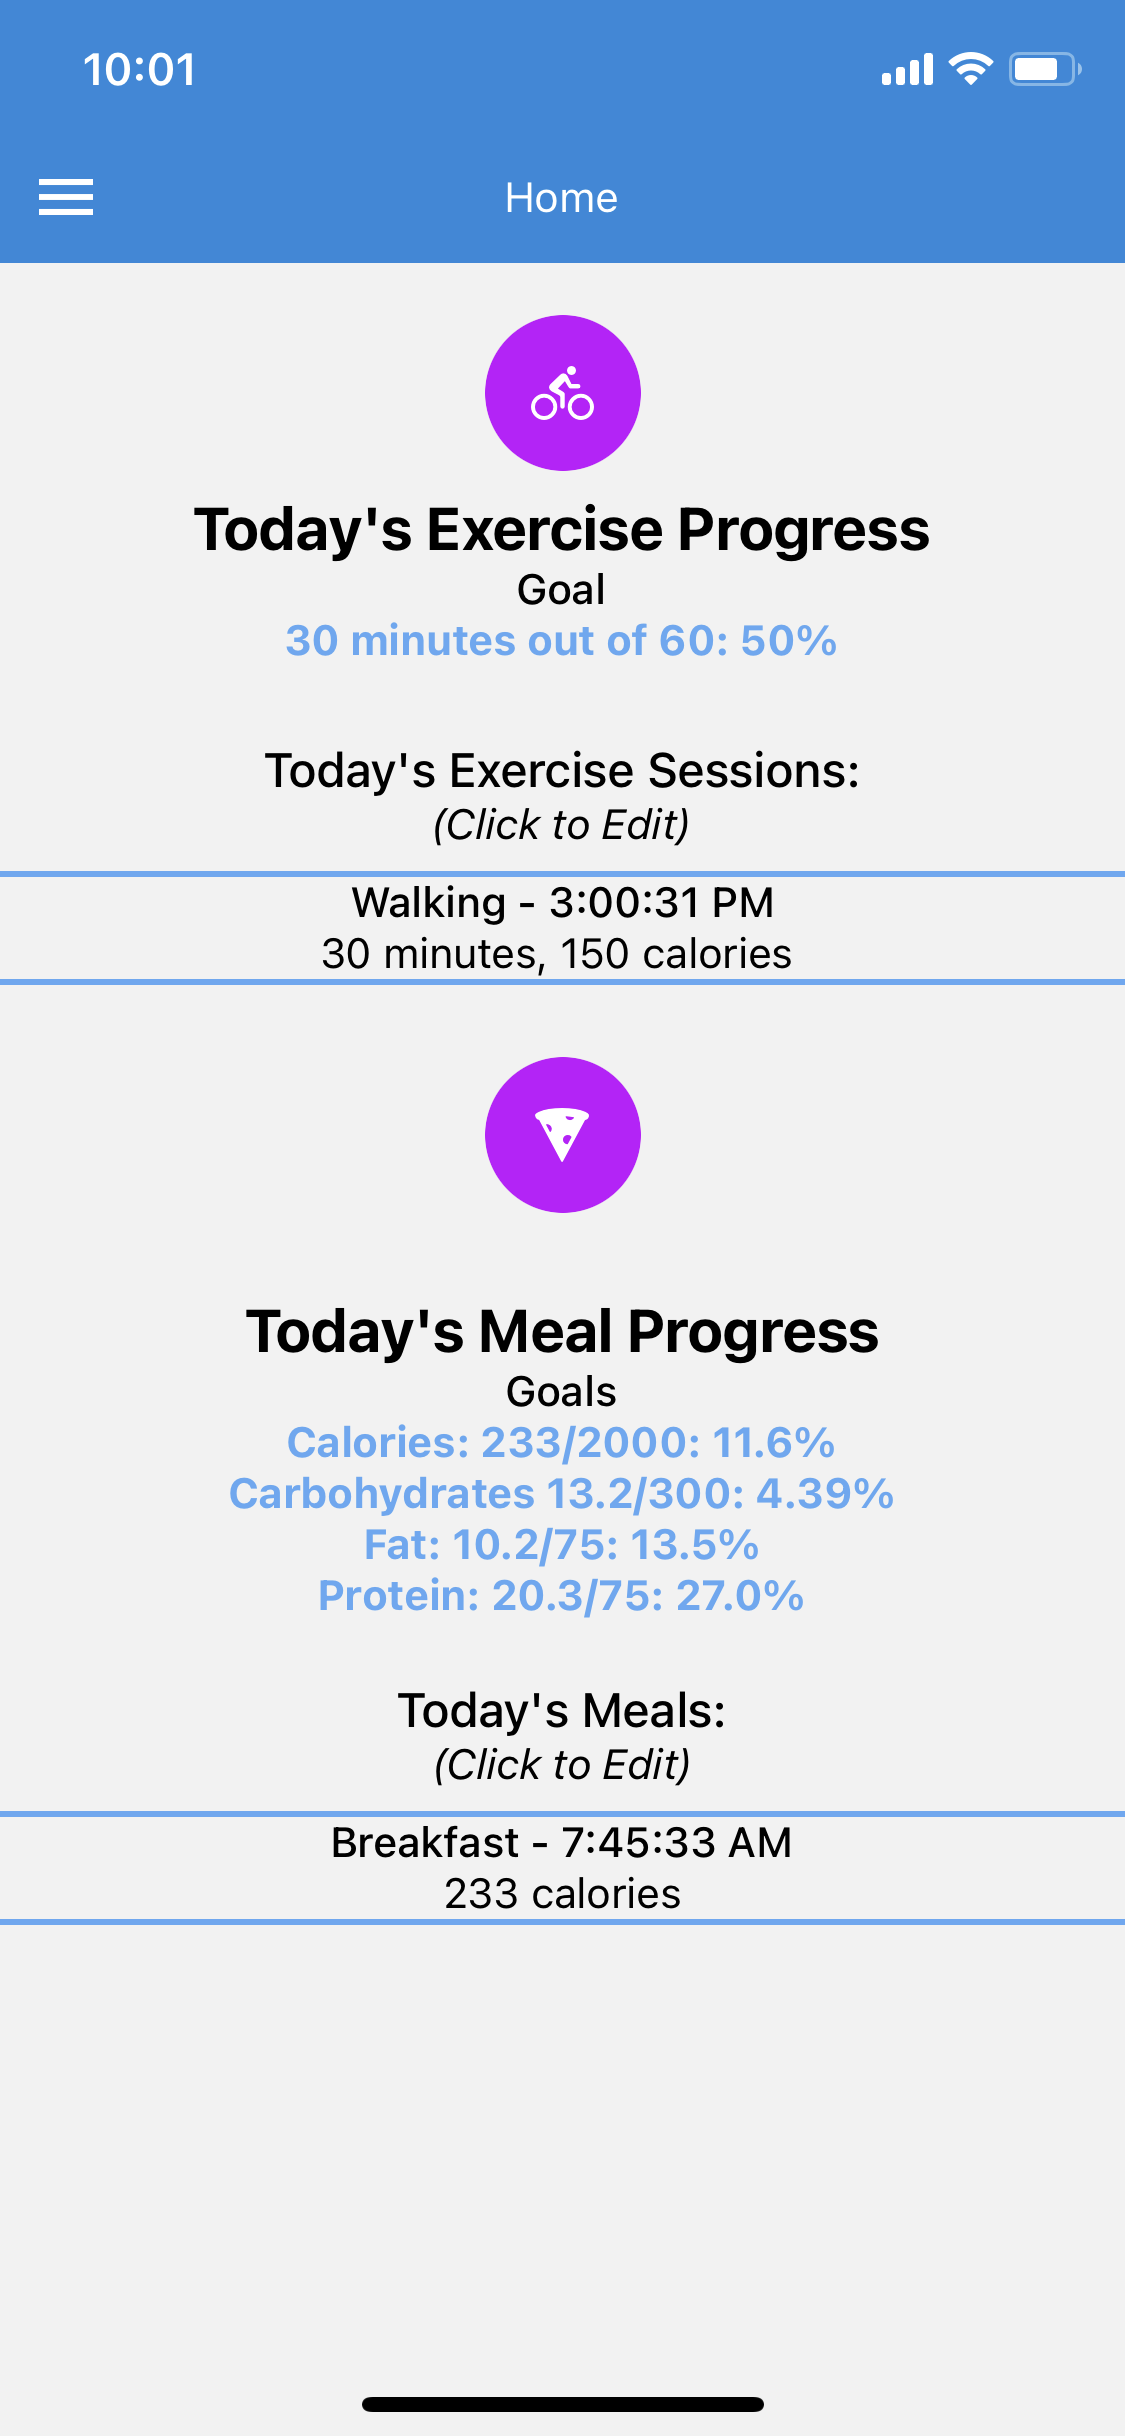
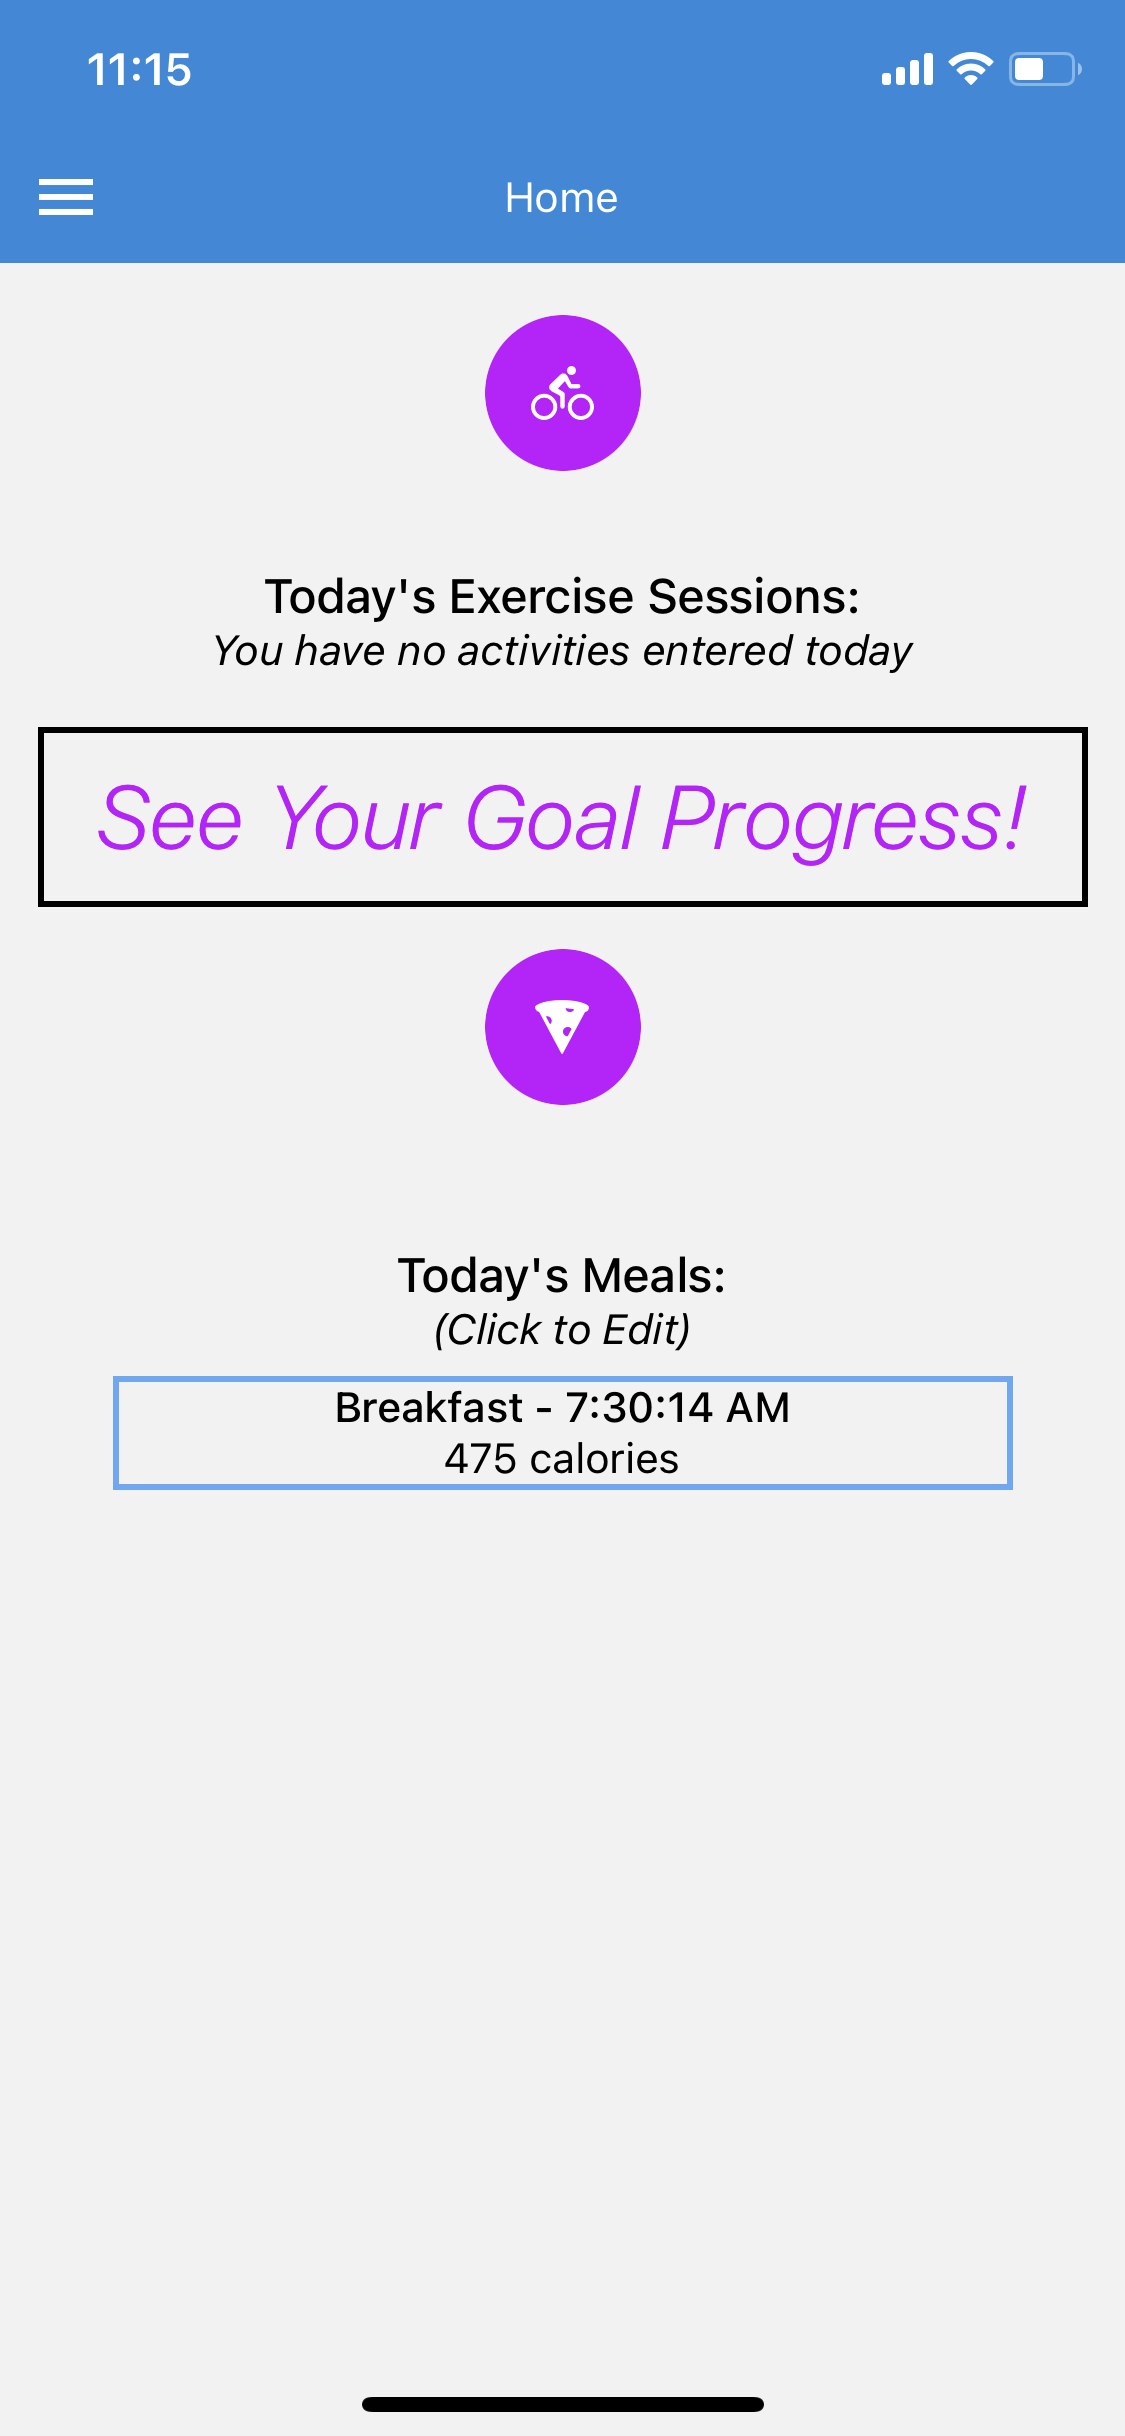
Added goal screen and goal card. README update as well

diff --git a/components/TodayScreen.js b/components/TodayScreen.js
@@ -1,7 +1,9 @@
 import React from 'react';
 import { StyleSheet, TextInput, Text, Button, View, ScrollView} from 'react-native';
-import ActivityCard from "./ExerciseCard";
+import ExerciseCard from "./ExerciseCard";
 import MealCard from "./MealCard";
+import GoalCard from "./GoalCard";
+
 // import { Header } from 'react-native-elements';
 import CCHeader from './CCHeader';
 import { Icon } from 'react-native-elements'
@@ -158,7 +160,7 @@ deleteMeal(id){
           if (arr.hasOwnProperty(key)) {     
                 var activityDate = new Date(arr[key].date);
                 if(activityDate.toDateString()===currentDate.toDateString()){
-                  activities.push(<ActivityCard key = {counter} navigation = {this.props.navigation} deleteExercise = {(id) => this.deleteExercise(id)} updateExercise = {(id, name, duration, calories, date) => this.updateExercise(id, name, duration, calories, date)} name = {arr[key].name} id = {arr[key].id} duration = {arr[key].duration} date = {arr[key].date} calories = {arr[key].calories}  /> )
+                  activities.push(<ExerciseCard key = {counter} navigation = {this.props.navigation} deleteExercise = {(id) => this.deleteExercise(id)} updateExercise = {(id, name, duration, calories, date) => this.updateExercise(id, name, duration, calories, date)} name = {arr[key].name} id = {arr[key].id} duration = {arr[key].duration} date = {arr[key].date} calories = {arr[key].calories}  /> )
                 }
                 counter++;
           }
@@ -196,7 +198,6 @@ deleteMeal(id){
     if(goal===0 || progress === 0){
       return "0";
     }
-    // console.log()
     let percentage = (progress/ goal) *100;
     let formatted = percentage.toString().substring(0,4)
     return formatted;
@@ -217,9 +218,6 @@ supplementalMealMessage(){
     return "(Click to Edit)"
   }
 }
-getTodaysDate(){
-  
-}
   render(){
   return (  // {this.getActivities()}
   <ScrollView>
@@ -227,11 +225,6 @@ getTodaysDate(){
   <CCHeader navigation = {this.props.navigation} title = {"Home"} />
   <View style={{padding: 10, alignItems: 'center', 'textAlign': 'center'}}>
   <Icon reverse name='ios-bicycle' type='ionicon' color= '#C400FF' />
-
-  <Text style = {{fontWeight: "700", fontSize: 20}}>Today's Exercise Progress</Text>
-  <Text  style = {{fontWeight: "500"}}>Goal</Text>
-
-  <Text style = {{color: '#5EA9F4', fontWeight: "700"}}>{this.props.todaysActivity} minutes out of {this.props.goalDailyActivity}: {this.calculatePercentage(this.props.todaysActivity, this.props.goalDailyActivity)}%</Text>
   </View>
   <View style = {styles.spaceVertical}></View>
 
@@ -240,19 +233,16 @@ getTodaysDate(){
         <Text style = {{fontStyle: 'italic'}}>{this.supplementalExerciseMessage()}</Text>
 
         {this.getActivities()}</View>
+
+        
         <View style={{padding: 10, alignItems: 'center', 'textAlign': 'center'}}>
+        <GoalCard navigation = {this.props.navigation} totalCalories = {this.state.totalCalories} goalCalories = {this.props.goalDailyCalories} totalActivity = {this.props.todaysActivity} goalActivity = {this.props.goalDailyActivity}
+        totalCarbs = {this.state.totalCarbs} goalCarbs = {this.props.goalDailyCarbohydrates} totalFat = {this.state.totalFat} goalFat = {this.props.goalDailyFat} totalProtein = {this.state.totalProtein} goalProtein = {this.props.goalDailyProtein}></GoalCard>
+        
           <Icon reverse name='ios-pizza' type='ionicon' color= '#C400FF'/>
         </View>
         
         <View style={{padding: 10, alignItems: 'center', 'textAlign': 'center'}}>
-        <Text style = {{fontWeight: "700", fontSize: 20}} >Today's Meal Progress</Text>
-        <Text  style = {{fontWeight: "500"}}>Goals</Text>
-
-        <Text  style = {{color: '#5EA9F4', fontWeight: "700"}}>Calories: {this.state.totalCalories}/{this.props.goalDailyCalories}: {this.calculatePercentage(this.state.totalCalories, this.props.goalDailyCalories)}%</Text>
-        <Text  style = {{color: '#5EA9F4', fontWeight: "700"}}>Carbohydrates {this.state.totalCarbs}/{this.props.goalDailyCarbohydrates}: {this.calculatePercentage(this.state.totalCarbs, this.props.goalDailyCarbohydrates)}%</Text>
-        <Text style = {{color: '#5EA9F4', fontWeight: "700"}}>Fat: {this.state.totalFat}/{this.props.goalDailyFat}: {this.calculatePercentage(this.state.totalFat, this.props.goalDailyFat)}%</Text>
-        <Text  style = {{color: '#5EA9F4', fontWeight: "700"}}>Protein: {this.state.totalProtein}/{this.props.goalDailyProtein}: {this.calculatePercentage(this.state.totalProtein, this.props.goalDailyProtein)}%</Text>
-
         <View  style = {{marginTop: 20, alignItems: 'center',
         justifyContent: 'center'}}><Text style = {{fontWeight: "500", fontSize: 16}}>Today's Meals:</Text>
         <Text style = {{fontStyle: 'italic'}}>{this.supplementalMealMessage()}</Text>

diff --git a/components/GoalScreen.js b/components/GoalScreen.js
@@ -1,0 +1,83 @@
+import React from 'react';
+import { StyleSheet, Text, Button, View, ScrollView} from 'react-native';
+import { Header } from 'react-native-elements';
+import ProgressBar from 'react-native-progress/Bar'
+
+export default class GoalScreen extends React.Component {
+
+constructor(props){
+  super(props);
+  this.state = {percentage: []}
+}
+
+async componentDidMount(){
+  var newPercentage = this.state.percentage.slice();
+  newPercentage[0] = this.props.route.params.totalActivity/this.props.route.params.goalActivity;
+  newPercentage[1] = this.props.route.params.totalCalories/this.props.route.params.goalCalories;
+  newPercentage[2] = this.props.route.params.totalProtein/this.props.route.params.goalProtein;
+  newPercentage[3] = this.props.route.params.totalFat/this.props.route.params.goalFat;
+  newPercentage[4] = this.props.route.params.totalCarbs/this.props.route.params.goalCarbs;
+  await this.setState({percentage: newPercentage})
+
+}
+
+  render(){
+  return (  // {this.getActivities()}
+  <ScrollView>
+  <Header
+  centerComponent={{ text: "Goals", style: { color: '#fff' } }}
+  accessibilityLabel="Goal Screen"
+accessibilityRole = "header"
+/> 
+ <View style={{padding: 10, alignItems: 'center', 'textAlign': 'center'}}>
+ <Text style = {{fontWeight: "500", fontSize: 40}}>Today</Text>
+
+ <Text style = {{fontWeight: "500", fontSize: 26, color: '#C400FF'}}>Food</Text>
+ <View style = {styles.spaceVerticalSmall}></View>
+ 
+      <Text>{this.props.route.params.totalCarbs} grams of carbohydrates</Text>
+      <ProgressBar progress={this.state.percentage[4]} width={200} />
+      <View style = {styles.spaceVerticalSmall}></View>
+
+      <Text>{this.props.route.params.totalProtein} grams of protein</Text>
+      <ProgressBar progress={this.state.percentage[2]} width={200} />
+      <View style = {styles.spaceVerticalSmall}></View>
+
+      <Text>{this.props.route.params.totalFat} grams of fat</Text>
+      <ProgressBar progress={this.state.percentage[3]} width={200} />
+      <View style = {styles.spaceVerticalSmall}></View>
+
+      <Text>{this.props.route.params.totalCalories} calories</Text>
+      <ProgressBar progress={this.state.percentage[1]} width={200} />
+      <View style = {styles.spaceVerticalLarge}></View>
+
+ <Text style = {{fontWeight: "500", fontSize: 26, color: '#C400FF'}}>Exercise</Text>
+ <View style = {styles.spaceVerticalSmall}></View>
+
+      <Text>{this.props.route.params.totalActivity} minutes</Text>
+      <ProgressBar progress={this.state.percentage[0]} width={200} />
+
+      <View style = {styles.spaceVerticalLarge}></View>
+
+        <Button title = "Go Back" accessibilityHint="Press to return to Today Screen"
+        accessibleRole = "button" onPress = {() =>   this.props.navigation.navigate('Today')}></Button>
+        </View>
+  </ScrollView>
+  );
+}
+ }
+
+ const styles = StyleSheet.create({
+  container: {
+    flex: 1,
+    backgroundColor: '#fff',
+    alignItems: 'center',
+    justifyContent: 'center',
+  },
+  spaceVerticalLarge: {
+    height: 30
+  },
+  spaceVerticalSmall: {
+    height: 15
+  },
+});

diff --git a/components/MealCard.js b/components/MealCard.js
@@ -35,17 +35,11 @@ getCarbs(){
   }
 }
 foodDetails(){
-  // console.log("foodDetails called")
-  // console.log(this.props.macroDetails.numFoods)
+
   if(this.props.macroDetails && this.props.macroDetails.numFoods===0){
-    // console.log("0 foods");
     return <Text>No foods entered yet.</Text>
   }
   else{
-    // console.log("more than 0 foods");
-  //   return <React.Fragment><Text>{this.getCalories()} calories</Text>
-  // <Text>{this.getCarbs()} grams of carbs, {this.getFat()} grams of fat, {this.getProtein()} grams of protein</Text>
-  // </React.Fragment>
   return <React.Fragment><Text>{this.getCalories()} calories</Text>
   </React.Fragment>
   }
@@ -55,7 +49,7 @@ foodDetails(){
 render(){
   return (
 
-  <View accessibilityLabel="Hold meal to modify" style={{width: 400, alignItems: 'center', marginBottom: 7, marginTop: 7, borderColor: '#5EA9F4', borderWidth: 2}} onStartShouldSetResponder= {() =>
+  <View accessibilityLabel="Hold meal to modify" style={{width: 400, alignItems: 'center', maxWidth: 300, margin: 7, borderColor: '#5EA9F4', borderWidth: 2}} onStartShouldSetResponder= {() =>
         this.props.navigation.navigate('Meal', {id: this.props.id, name: this.props.name, updateMeal: this.props.updateMeal, 
           deleteMeal: this.props.deleteMeal, date: this.props.date.toLocaleString()})}>
       <Text style = {{fontWeight: "500"}}>{this.props.name} - {this.formatDate(this.props.date)}</Text>

diff --git a/components/FoodCard.js b/components/FoodCard.js
@@ -7,13 +7,13 @@ export default class MealCard extends React.Component {
 render(){
   return (
 
-  <View accessibilityLabel="Hold food to modify" style={{width: 400, alignItems: 'center', marginBottom: 7, marginTop: 7, borderColor: '#5EA9F4', borderWidth: 2}} onStartShouldSetResponder= {() =>
+  <View accessibilityLabel="Hold food to modify" style={{width: 400, maxWidth: 300, alignItems: 'center', marginBottom: 7, marginTop: 7, borderColor: '#5EA9F4', borderWidth: 2}} onStartShouldSetResponder= {() =>
         this.props.navigation.navigate('ExistingFood', {mealid: this.props.mealid, id: this.props.foodid, 
           name: this.props.name, calories: this.props.calories, protein: this.props.protein, carbs: this.props.carbs, fat: this.props.fat, updateFood: this.props.updateFood, 
           deleteFood: this.props.deleteFood})}>
       <Text style = {{fontWeight: "500"}}>{this.props.name}</Text>
       <Text>Calories: {this.props.calories}</Text>
-      <Text>{this.props.carbs} grams of carbs, {this.props.fat} grams of fat, {this.props.protein} grams of protein</Text>
+      <Text>Carbs: {this.props.carbs} (g), Fat: {this.props.fat} (g), Protein: {this.props.protein} (g)</Text>
   </View>
   );
 }  

diff --git a/components/GoalCard.js b/components/GoalCard.js
@@ -1,0 +1,22 @@
+import React from 'react';
+import { StyleSheet, TextInput, Text, Button, View } from 'react-native';
+
+export default class GoalCard extends React.Component {
+  constructor(props){
+    super(props);
+    this.state = {foods: [], totalProtein:0, totalCals: 0, totalFat: 0, totalCarbs: 0};
+  }
+
+render(){
+  return (
+
+  <View accessibilityLabel="Hold to see your goals" style={{width: 400, alignItems: 'center', maxWidth: 350, paddingTop: 10, paddingBottom: 10, marginBottom: 7, marginTop: 7, borderWidth: 2}} onStartShouldSetResponder= {() =>
+        this.props.navigation.navigate('Goals', {totalCalories: this.props.totalCalories, goalCalories: this.props.goalCalories, totalActivity: this.props.totalActivity, goalActivity: this.props.goalActivity,
+        totalCarbs: this.props.totalCarbs, goalCarbs: this.props.goalCarbs, totalFat: this.props.totalFat, goalFat: this.props.goalFat, totalProtein: this.props.totalProtein, goalProtein: this.props.goalProtein})}>
+  
+        <Text style = {{fontWeight: "300", fontSize: 30, fontStyle: 'italic', color: "#C400FF"}}>See Your Goal Progress!</Text>
+  </View>
+  );
+}  
+}
+

diff --git a/App.js b/App.js
@@ -8,15 +8,16 @@ import ProfileScreen from "./components/ProfileScreen";
 import Home from "./components/Home";
 import NewExerciseScreen from "./components/NewExerciseScreen";
 import NewMealScreen from "./components/NewMealScreen";
-import { LogBox } from 'react-native';
 import { createDrawerNavigator } from '@react-navigation/drawer';
 import {DrawerContentScrollView,DrawerItemList,DrawerItem} from '@react-navigation/drawer';
-const Drawer = createDrawerNavigator();
 
+import { LogBox } from 'react-native';
 // Handle error
 LogBox.ignoreLogs([
   'Non-serializable values were found in the navigation state',
 ]);
+
+const Drawer = createDrawerNavigator();
 
 const initialState = {
   isLoggedIn: false, username: "", token: "", activities: [], goalDailyCalories: 0.0,

diff --git a/components/Home.js b/components/Home.js
@@ -4,6 +4,7 @@ import ExerciseScreen from './ExerciseScreen';
 import FoodScreen from './FoodScreen';
 import MealScreen from './MealScreen';
 import NewFoodScreen from './NewFoodScreen';
+import GoalScreen from './GoalScreen';
 
 import { createStackNavigator } from '@react-navigation/stack';
 import {
@@ -37,6 +38,7 @@ constructor(props){
         <Stack.Screen name="Meal">{props => <MealScreen {...props} token = {this.props.token}/>}</Stack.Screen> 
         <Stack.Screen name="ExistingFood">{props => <FoodScreen {...props}/>}</Stack.Screen> 
         <Stack.Screen name="NewFood">{props => <NewFoodScreen {...props}/>}</Stack.Screen> 
+        <Stack.Screen name="Goals">{props => <GoalScreen {...props}/>}</Stack.Screen> 
 
         </Stack.Navigator>
   );

diff --git a/components/ExerciseCard.js b/components/ExerciseCard.js
@@ -12,7 +12,8 @@ render(){
   return (
 
     <View accessibilityLabel="Hold activity to modify" 
-    style={{width: 400, alignItems: 'center', marginBottom: 7, marginTop: 7, borderColor: '#5EA9F4', borderWidth: 2}} onStartShouldSetResponder= {() =>
+    style={{width: 400, alignItems: 'center', maxWidth: 300, marginBottom: 7, marginTop: 7, borderColor: '#5EA9F4', borderWidth: 2}} 
+    onStartShouldSetResponder= {() =>
         this.props.navigation.navigate('Exercise', {id: this.props.id, name: this.props.name, 
           duration: this.props.duration, updateExercise: this.props.updateExercise, 
           deleteExercise: this.props.deleteExercise, date: this.props.date.toLocaleString(), calories: this.props.calories})}>

diff --git a/components/MealScreen.js b/components/MealScreen.js
@@ -261,7 +261,7 @@ render(){
 
           <Text style = {{fontWeight: "500"}} >Meal Nutritional Details:</Text>
           <Text >{this.state.totalCals} Calories</Text>
-          <Text>{this.state.totalCarbs} grams of carbs, {this.state.totalFat} grams of fat, {this.state.totalProtein} grams of protein</Text>
+          <Text>Carbs: {this.state.totalCarbs} (g), Fat: {this.state.totalFat} (g), Protein: {this.state.totalProtein} (g)</Text>
         <View style = {styles.spaceVertical}></View>
           <View>{this.getFoods()}</View>
             

diff --git a/README.md b/README.md
@@ -7,29 +7,31 @@ Created a fitness and meal tracking mobile app with React Native in tangent with
      <td>Today_Screen</td>
   </tr>
   <tr>
-    <td><img src="Screenshots/Login_Screen.PNG" width=270 height=560></td>
-    <td><img src="Screenshots/Today_Screen.PNG" width=270 height=560></td>
+    <td><img src="Screenshots/Login_Screen.PNG" width=370 height=800></td>
+    <td><img src="Screenshots/Today_Screen.PNG" width=370 height=800></td>
   </tr>
     <tr> <td>Add_ActivityScreen</td>
         <td>Edit_MealScreen</td>
     </tr>
 
-  <tr>    <td><img src="Screenshots/Add_ActivityScreen.PNG" width=270 height=560></td>
-      <td><img src="Screenshots/Edit_FoodScreen.PNG" width=270 height=560></td>
+  <tr>    <td><img src="Screenshots/Add_ActivityScreen.PNG" width=370 height=800></td>
+      <td><img src="Screenshots/Edit_FoodScreen.PNG" width=370 height=800></td>
   </tr>
   <tr>
      <td>Edit_MealScreen</td>
      <td>Profile_Screen</td>
   </tr>
   <tr>
-    <td><img src="Screenshots/Edit_MealScreen.PNG" width=270 height=560></td>
-    <td><img src="Screenshots/Profile_Screen.PNG" width=270 height=560></td>
+    <td><img src="Screenshots/Edit_MealScreen.PNG" width=370 height=800></td>
+    <td><img src="Screenshots/Profile_Screen.PNG" width=370 height=800></td>
   </tr>
   <tr>
+    <td>Goal_Screen</td>
     <td>Drawers_Navigation</td>
   </tr>
   <tr>
-    <td><img src="Screenshots/Drawers.PNG" width=270 height=560></td>
+        <td><img src="Screenshots/Goal_Screen.PNG" width=370 height=800></td>
+    <td><img src="Screenshots/Drawers.PNG" width=370 height=800></td>
   </tr>
  </table>
 
